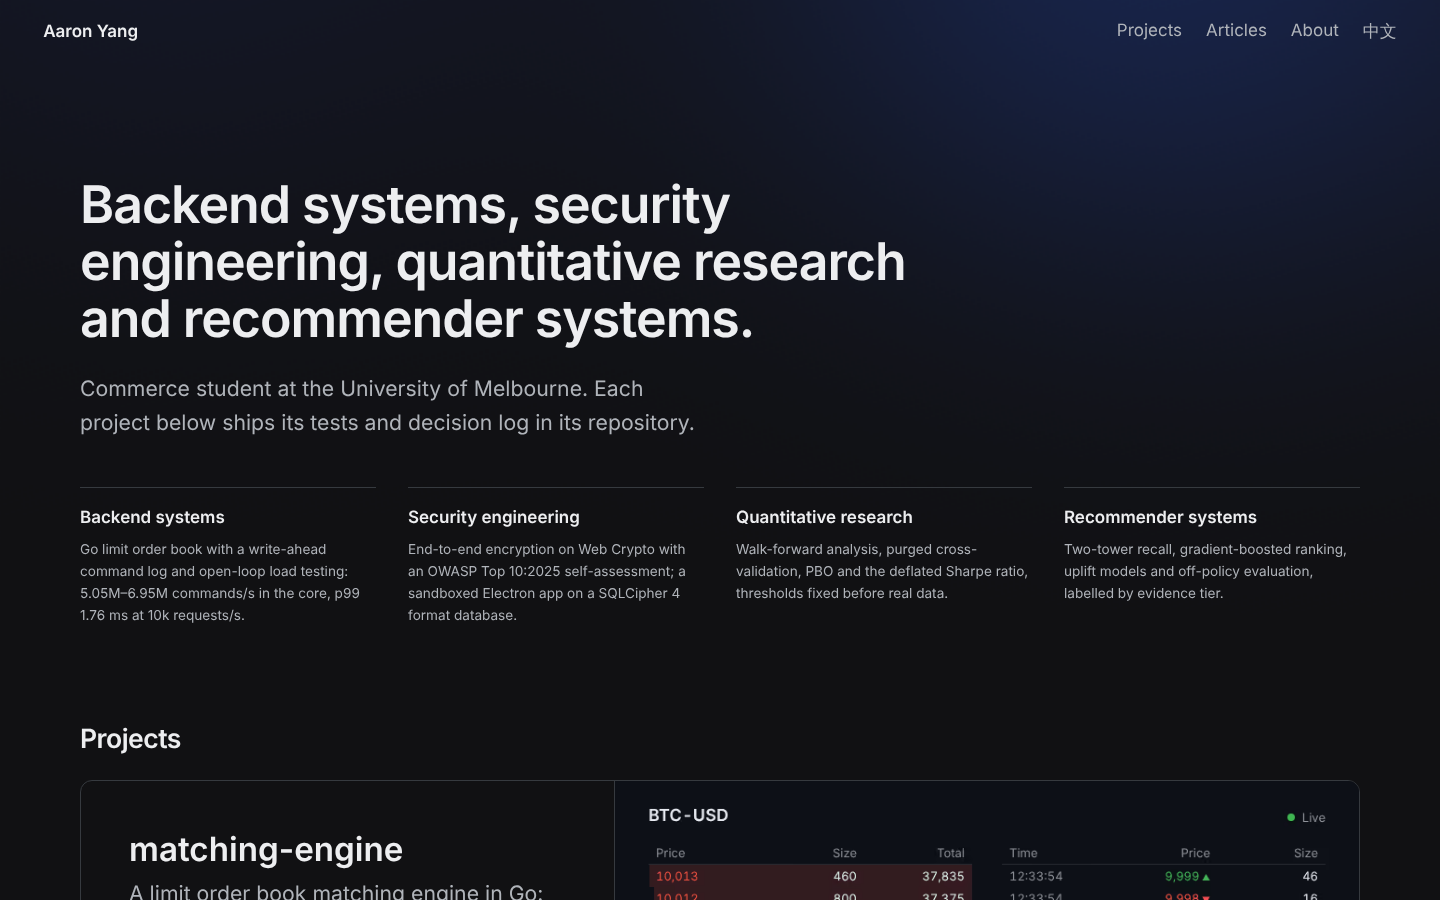
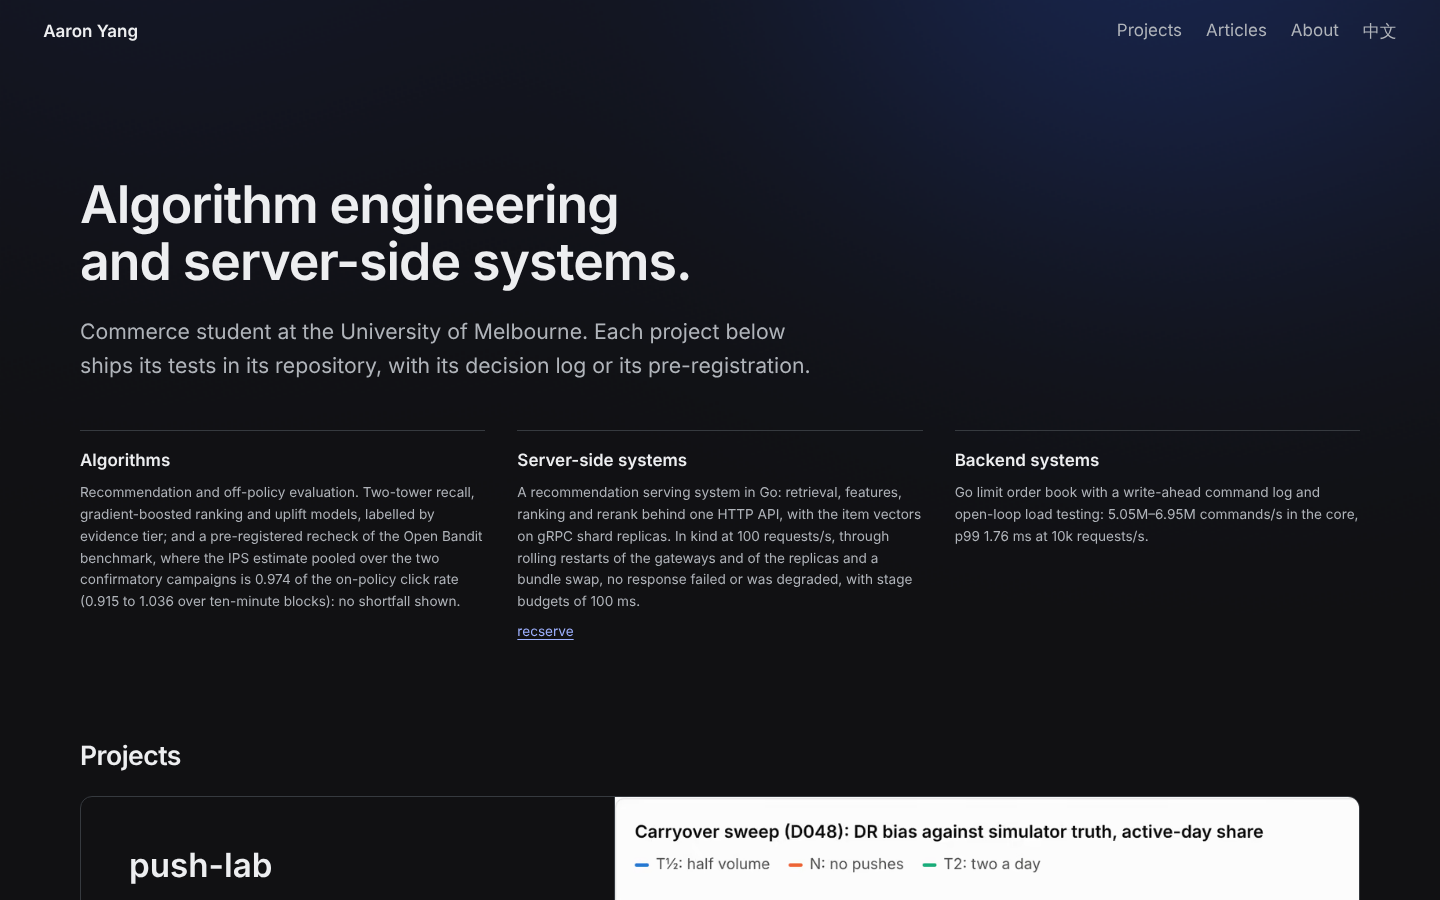
docs(readme): retake screenshots and scores after the new positioning
The project page shown is ope-checks, and the table covers 28 pages.

Claude-Session: https://claude.ai/code/session_019PopLwqqrBQi49BchkLowW

diff --git a/README.md b/README.md
@@ -22,18 +22,18 @@ At 1440×900 ([D019](docs/DECISIONS.md)).
 | Light | Dark |
 | --- | --- |
 | ![Home page, light theme](docs/screenshots/home-light.png) | ![Home page, dark theme](docs/screenshots/home-dark.png) |
-| ![local-ledger project page, light theme](docs/screenshots/local-ledger-light.png) | ![local-ledger project page, dark theme](docs/screenshots/local-ledger-dark.png) |
+| ![ope-checks project page, light theme](docs/screenshots/ope-checks-light.png) | ![ope-checks project page, dark theme](docs/screenshots/ope-checks-dark.png) |
 
 ## Lighthouse
 
-The live site at `079f1b5` on 2026-11-11, with CI's settings ([D019](docs/DECISIONS.md)): the mobile preset three times per page, the median run kept, and the desktop preset once. Each cell is performance / accessibility / best practices / SEO. Mobile performance on the Chinese pages is the median of seven runs: on the live site their longest layout task runs after first contentful paint and counts as blocking time, and single runs of one page ranged from 85 to 100 ([D020](docs/DECISIONS.md)).
+The live site at `73c4188` on 2026-11-11, with CI's settings ([D019](docs/DECISIONS.md)): the mobile preset three times per page, the median run kept, and the desktop preset once. Each cell is performance / accessibility / best practices / SEO. Mobile performance on the Chinese pages is the median of seven runs: on the live site their longest layout task runs after first contentful paint and counts as blocking time, and single runs of one page ranged from 85 to 100 ([D020](docs/DECISIONS.md)).
 
 | Page | Mobile | Desktop |
 | --- | --- | --- |
 | `/` | 100 / 100 / 100 / 100 | 100 / 100 / 100 / 100 |
-| `/zh/` | 99 / 100 / 100 / 100 | 100 / 100 / 100 / 100 |
-| `/about/` | 100 / 100 / 100 / 100 | 100 / 95 / 100 / 100 |
-| `/zh/about/` | 99 / 100 / 100 / 100 | 100 / 95 / 100 / 100 |
+| `/zh/` | 100 / 100 / 100 / 100 | 100 / 100 / 100 / 100 |
+| `/about/` | 100 / 100 / 100 / 100 | 100 / 100 / 100 / 100 |
+| `/zh/about/` | 100 / 100 / 100 / 100 | 100 / 100 / 100 / 100 |
 | `/articles/` | 100 / 100 / 100 / 100 | 100 / 100 / 100 / 100 |
 | `/zh/articles/` | 100 / 100 / 100 / 100 | 100 / 100 / 100 / 100 |
 | `/articles/cryptography-held/` | 100 / 100 / 100 / 100 | 100 / 100 / 100 / 100 |
@@ -42,20 +42,24 @@ The live site at `079f1b5` on 2026-11-11, with CI's settings ([D019](docs/DECISI
 | `/zh/articles/locking-ends-a-process/` | 100 / 100 / 100 / 100 | 100 / 100 / 100 / 100 |
 | `/articles/low-pbo-easy-question/` | 100 / 100 / 100 / 100 | 100 / 100 / 100 / 100 |
 | `/zh/articles/low-pbo-easy-question/` | 100 / 100 / 100 / 100 | 100 / 100 / 100 / 100 |
+| `/articles/open-bandit-shortfall/` | 100 / 100 / 100 / 100 | 100 / 100 / 100 / 100 |
+| `/zh/articles/open-bandit-shortfall/` | 100 / 100 / 100 / 100 | 100 / 100 / 100 / 100 |
 | `/articles/order-book-cpu/` | 100 / 100 / 100 / 100 | 100 / 100 / 100 / 100 |
 | `/zh/articles/order-book-cpu/` | 100 / 100 / 100 / 100 | 100 / 100 / 100 / 100 |
 | `/projects/backtest-lab/` | 100 / 100 / 100 / 100 | 100 / 100 / 100 / 100 |
-| `/zh/projects/backtest-lab/` | 97 / 96 / 100 / 100 | 100 / 100 / 100 / 100 |
+| `/zh/projects/backtest-lab/` | 99 / 96 / 100 / 100 | 100 / 100 / 100 / 100 |
 | `/projects/local-ledger/` | 100 / 100 / 100 / 100 | 100 / 100 / 100 / 100 |
-| `/zh/projects/local-ledger/` | 99 / 96 / 100 / 100 | 100 / 100 / 100 / 100 |
+| `/zh/projects/local-ledger/` | 100 / 96 / 100 / 100 | 100 / 100 / 100 / 100 |
 | `/projects/matching-engine/` | 100 / 100 / 100 / 100 | 100 / 100 / 100 / 100 |
-| `/zh/projects/matching-engine/` | 99 / 100 / 100 / 100 | 100 / 100 / 100 / 100 |
+| `/zh/projects/matching-engine/` | 100 / 100 / 100 / 100 | 100 / 100 / 100 / 100 |
+| `/projects/ope-checks/` | 100 / 100 / 100 / 100 | 100 / 100 / 100 / 100 |
+| `/zh/projects/ope-checks/` | 100 / 100 / 100 / 100 | 100 / 100 / 100 / 100 |
 | `/projects/push-lab/` | 100 / 100 / 100 / 100 | 100 / 100 / 100 / 100 |
 | `/zh/projects/push-lab/` | 99 / 96 / 100 / 100 | 100 / 100 / 100 / 100 |
-| `/projects/vault-share/` | 99 / 100 / 100 / 100 | 100 / 100 / 100 / 100 |
-| `/zh/projects/vault-share/` | 98 / 100 / 100 / 100 | 100 / 100 / 100 / 100 |
+| `/projects/vault-share/` | 100 / 100 / 100 / 100 | 100 / 100 / 100 / 100 |
+| `/zh/projects/vault-share/` | 99 / 100 / 100 / 100 | 100 / 100 / 100 / 100 |
 
-Where accessibility is below 100, the contrast check read text partway through its entrance fade: the About pages on desktop ([D020](docs/DECISIONS.md)) and the gallery captions of three Chinese project pages on mobile.
+Where accessibility is below 100, the contrast check read the gallery captions of three Chinese project pages partway through their entrance fade, on mobile.
 
 ## Development
 

diff --git a/docs/DECISIONS.md b/docs/DECISIONS.md
@@ -140,6 +140,7 @@
 - Rationale: 24 pages in two presets do not fit in report screenshots, while a table names the commit it measured and shows in a diff; CI keeps the full reports of every push as artifacts
 - Note: on the Linux machine that runs Lighthouse, Chinese pages spend about twice as long in style and layout as English ones, because it has none of the stack's CJK fonts and finds WenQuanYi Zen Hei through fontconfig; under the mobile preset's CPU slowdown this can cost a point of performance. Naming that font cut the time by a third, but readers' devices do not have it, so the stack stays as D010 sets it
 - Amendment 2026-11-11: mobile performance on the Chinese pages is the median of seven runs instead of three. On the live site their longest layout task runs after first contentful paint and counts as blocking time, and single runs of one page ranged from 85 to 100
+- Amendment 2026-11-11: the project page shown is ope-checks, since local-ledger is now an earlier project (D022), and the table covers 28 pages
 
 ## D020 Wide-screen layout
 - Date: 2026-11-09

diff --git a/docs/project-sources/about.md b/docs/project-sources/about.md
@@ -189,7 +189,7 @@ Where each tool appears: site project tags first, then the repositories.
 
 | Number or claim | Source |
 |---|---|
-| Algorithm engineering and server-side systems, with backend development next to them | site:docs/SPEC.md:10; site:docs/DECISIONS.md:165 (D022); the three area sections above |
+| Algorithm engineering and server-side systems, with backend development next to them | site:docs/SPEC.md:10; site:docs/DECISIONS.md:166 (D022); the three area sections above |
 | Recommendation models and off-policy evaluation | push-lab docs/SPEC.md:11-13; ope-checks README.md:3 |
 | Comparisons are registered before the results and reported as they came out | push-lab docs/SPEC.md:18; docs/DECISIONS.md:199 (D020); ope-checks README.md:9; obd/PREREGISTRATION.md:163 |
 | A ranking result that went the other way | push-lab docs/DECISIONS.md:201 (D020) |
